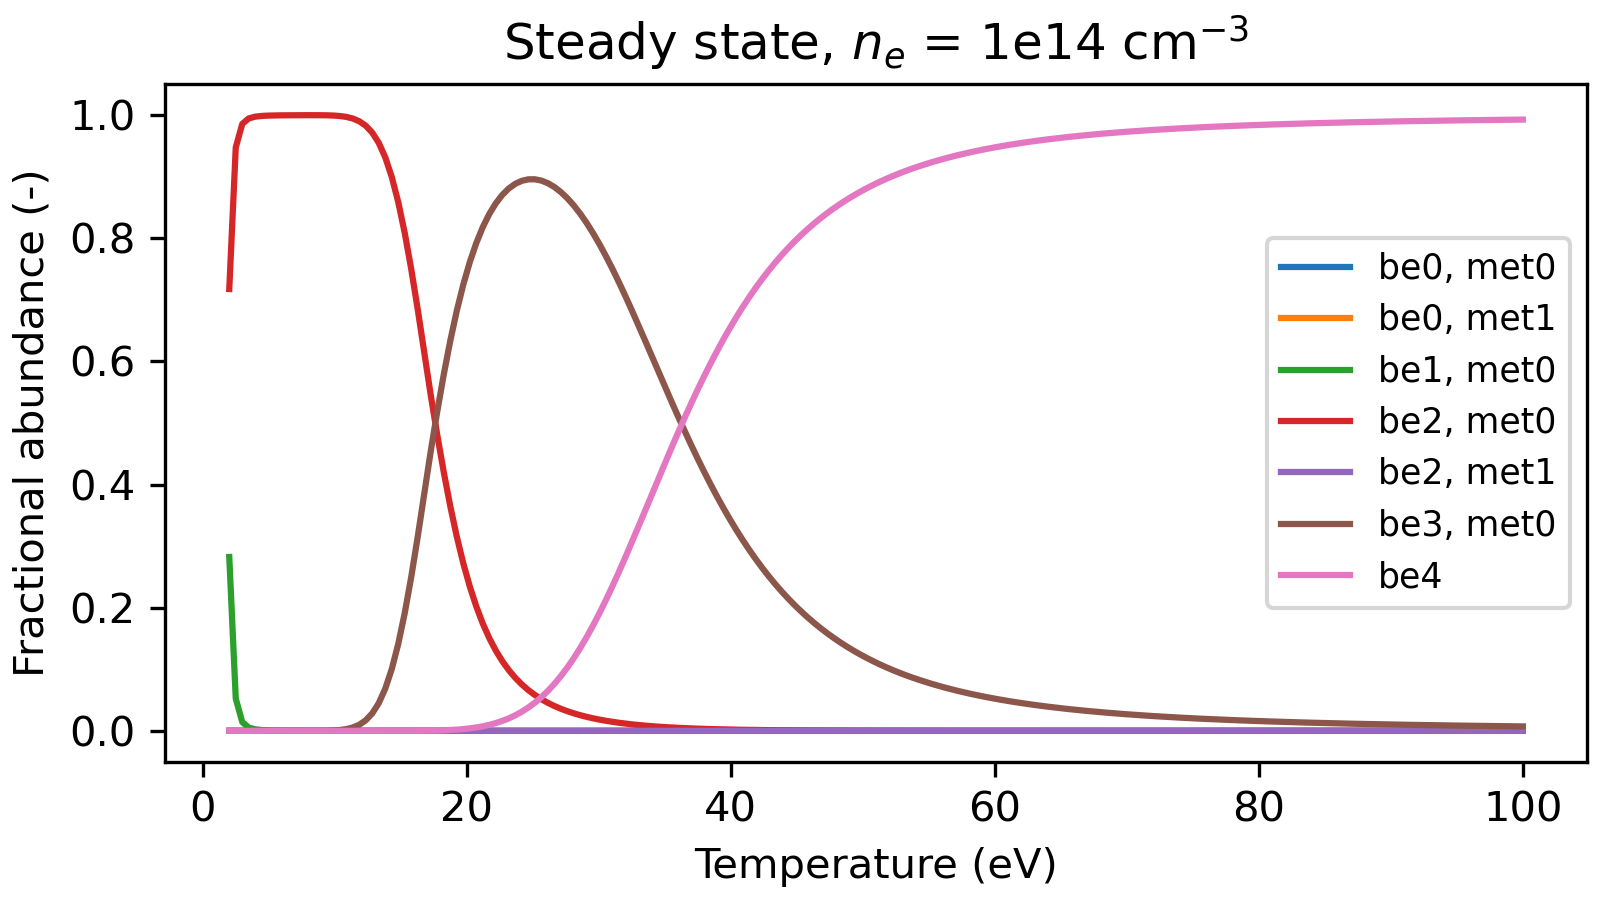
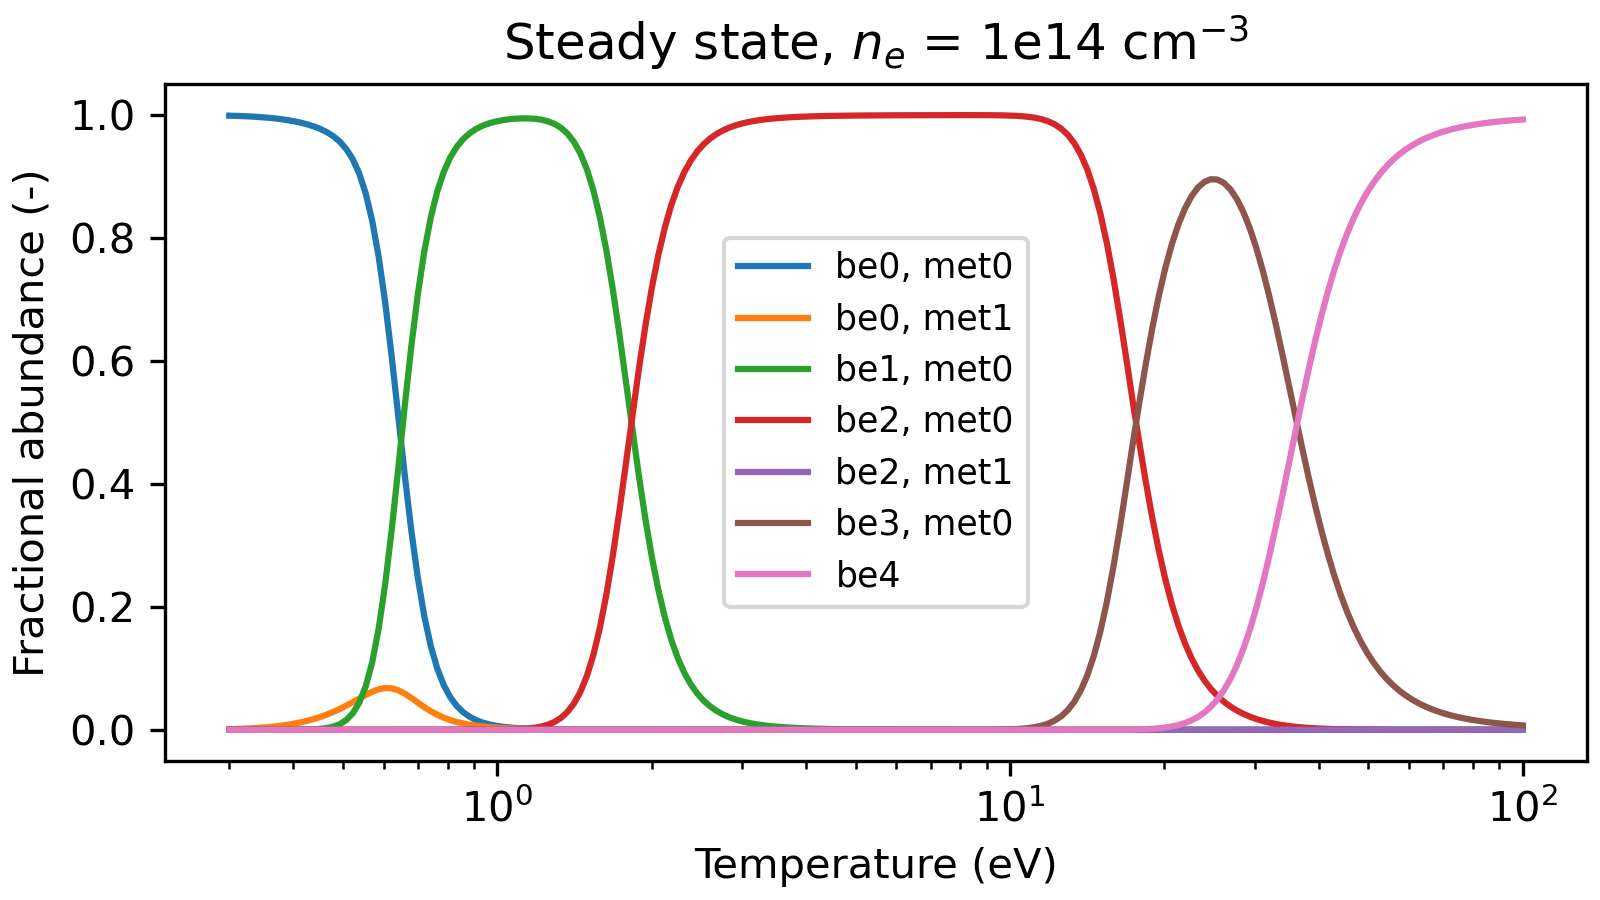
Start the tutorial's steady-state balance at 0.3 eV on a log axis
From 2 eV on a linear axis Be0 was not visible: at 1e14 cm-3 it is
5e-5 of the element at 2 eV and dominates only below about 0.6 eV. The
temperature grid is now np.geomspace(0.3, 100, 200) with a log axis, so
the plot shows Be0, its 2s2p 3P metastable (up to 7% near 0.6 eV) and
every stage that follows.

diff --git a/docs/source/tutorial.rst b/docs/source/tutorial.rst
@@ -878,7 +878,7 @@ The steady-state solution as a function of electron temperature is shown below.
 .. code-block:: python
    :linenos:
 
-   temp = np.linspace(2,100,200) #temperature grid (eV)
+   temp = np.geomspace(0.3,100,200) #temperature grid (eV)
    ion = ionization_balance(fils, metas, temp, dens, keep_charge_state_data=False)
    ion.populate_ion_matrix()
    ion.solve_time_independent()
@@ -886,7 +886,7 @@ The steady-state solution as a function of electron temperature is shown below.
    fig, ax = plt.subplots(figsize=(16/3, 3), layout='constrained')
    for state, label in enumerate(labels):
        ax.plot(temp, ion.data['processed']['pops_ss'][state,:,1], label=label)
-   ax.set(xlabel='Temperature (eV)', ylabel='Fractional abundance (-)',
+   ax.set(xscale='log', xlabel='Temperature (eV)', ylabel='Fractional abundance (-)',
           title='Steady state, $n_e$ = 1e14 cm$^{-3}$')
    ax.legend(fontsize='small')
 
